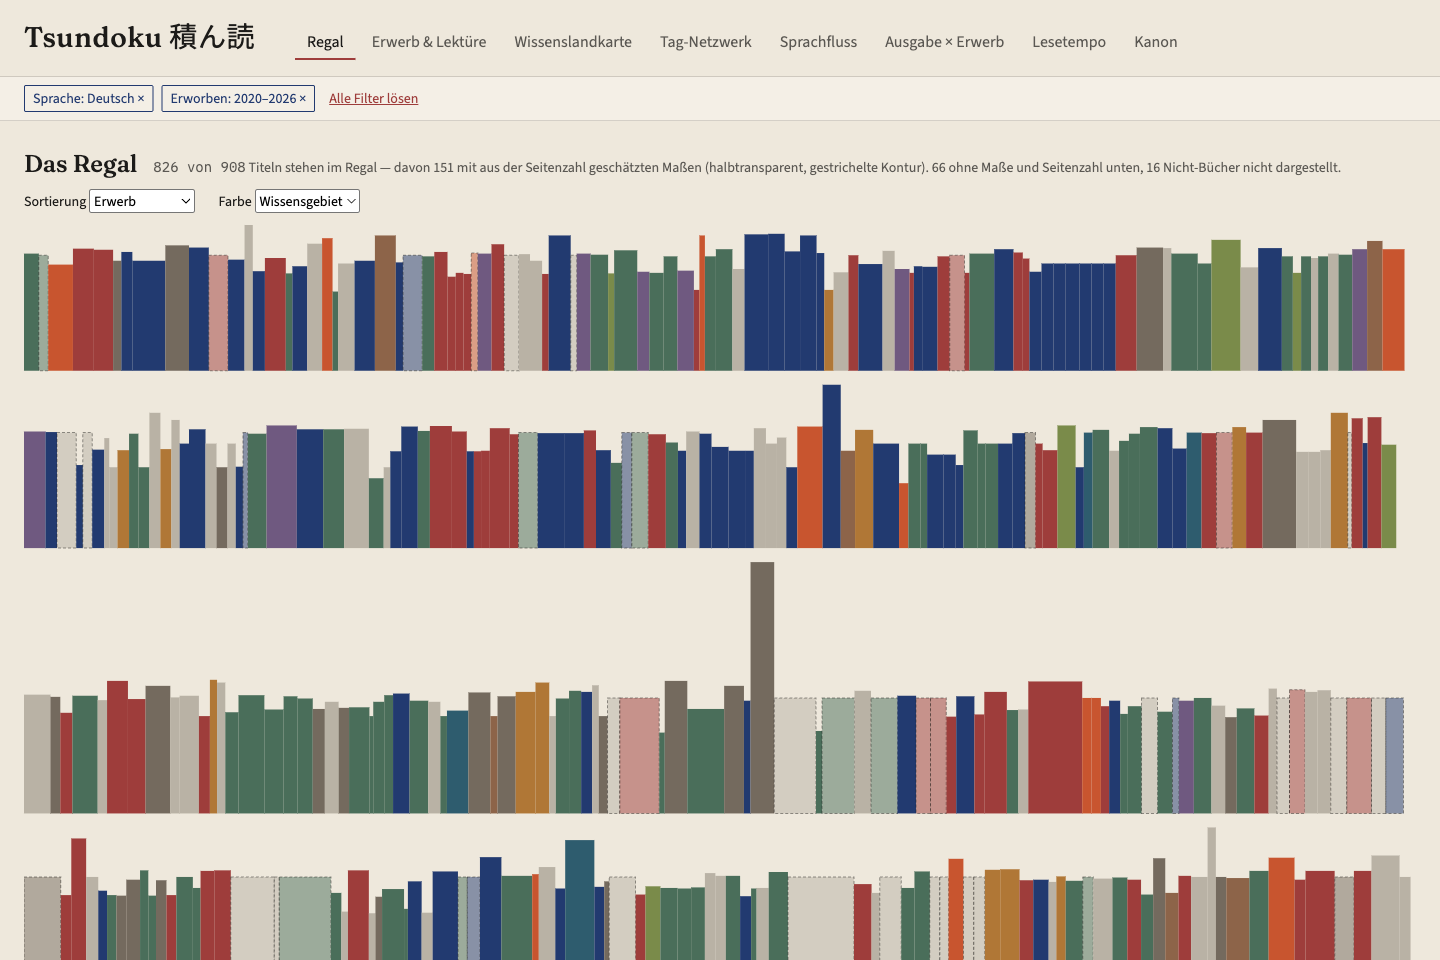
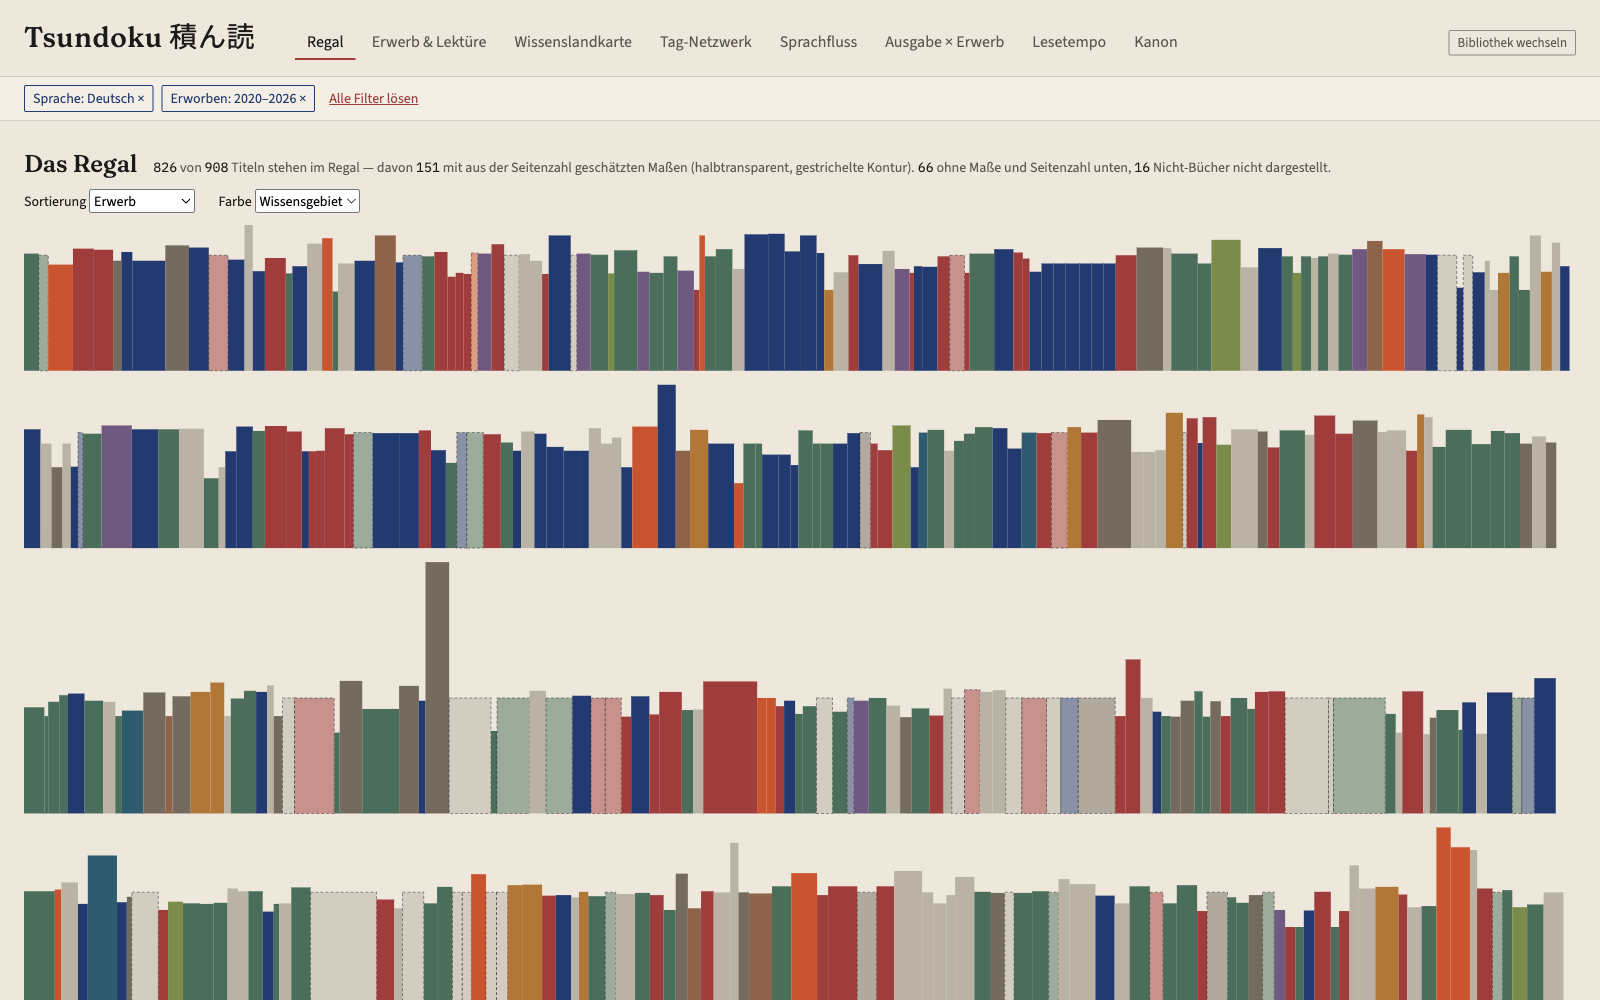
docs: README auf aktuellen Funktionsstand, Screenshots erneuert
Öffentliche Instanz prominent im Intro; Ansichtsbeschreibungen um die
neuen Interaktionen ergänzt (Detailkarte mit klickbaren Kriterien und
LibraryThing-Link, Zeitraum-Brush in beiden Zeitleisten und der Matrix,
Zoom/Suche im Tag-Netzwerk, Sprachbalken-Klick und Lesejahr-Filter im
Sprachfluss). Neuer Screenshot der Begrüßungsseite mit Upload; die drei
bestehenden Screenshots auf dem aktuellen Stand neu aufgenommen
(Zahlen-Typografie, Fußzeile, Kopfzeile mit Bibliothek-wechseln).
Stand-Abschnitt um Upload-Pfad und GitHub-Page ergänzt.

Claude-Session: https://claude.ai/code/session_01F4fjRtBP7VWSwbD4CFKadP

diff --git a/README.md b/README.md
@@ -9,22 +9,28 @@ verrät die Differenz zwischen Erwerb und Lektüre über mich"**. Nur gut ein
 Viertel der Sammlung ist gelesen; der Rest ist der Stapel, und der Stapel hat
 eine Geschichte.
 
-Clientseitige Single-Page-App, kein Backend. Der Export wird einmalig
-normalisiert und als statisches JSON ausgeliefert.
+Clientseitige Single-Page-App, kein Backend — läuft auf
+**<https://saigyo.github.io/tsundoku/>** mit der eigenen
+LibraryThing-Bibliothek: Export hochladen, die Normalisierung passiert im
+Browser, nichts verlässt den Rechner.
 
 ## Was es zu sehen gibt
 
 Acht Ansichten, und jede ist zugleich Anzeige und Filtereingabe: Ein Klick auf
-einen Tag im Netzwerk, ein Jahr in der Zeitleiste oder einen Strom im
-Sprachfluss schränkt den Datensatz für *alle* anderen Ansichten ein. Die
-aktiven Filter stehen als Chips über jeder Ansicht, einzeln lösbar, und der
-komplette Zustand liegt in der URL — jede Sicht auf die Sammlung ist ein Link.
+einen Tag im Netzwerk, einen Strom im Sprachfluss oder ein per Ziehen
+aufgespannter Zeitraum in den Zeitleisten schränkt den Datensatz für *alle*
+anderen Ansichten ein. Die aktiven Filter stehen als Chips über jeder Ansicht,
+einzeln lösbar, und der komplette Zustand liegt in der URL — jede Sicht auf
+die Sammlung ist ein Link.
 
 **Das Regal** ist Start- und Signature-Ansicht: jeder Buchrücken ein Rechteck
 in echten Proportionen, Höhe und Dicke aus den Katalogmaßen (wo sie fehlen,
 aus der Seitenzahl geschätzt und sichtbar gestrichelt markiert). Farbe nach
 Wissensgebiet, Sprache, Lesestatus oder Erwerbsjahr; Sortierung nach Erwerb,
-Autor·in, Höhe oder Wissensgebiet. Hier mit den Filtern „Sprache: Deutsch"
+Autor·in, Höhe oder Wissensgebiet. Ein Klick auf einen Rücken öffnet die
+Detailkarte des Titels — dort sind Autor·innen, Tags, Sprachen und
+Wissensgebiet selbst wieder klickbare Filter, und ein Link führt zum Buch in
+der eigenen LibraryThing-Bibliothek. Hier mit den Filtern „Sprache: Deutsch"
 und „Erworben: 2020–2026":
 
 ![Das Regal, gefiltert auf deutsche Titel der Erwerbsjahre 2020–2026](docs/screenshots/regal-gefiltert.png)
@@ -32,25 +38,30 @@ und „Erworben: 2020–2026":
 **Die Wissenslandkarte** zeichnet die Interessengebiete über 35 Erwerbsjahre
 als Streamgraph der Dewey-Hauptklassen — vom schmalen Rinnsal der frühen Jahre
 über die Massenkatalogisierung 2006 bis zum breiten Strom aus Literatur (grün),
-Sozialwissenschaften (rot) und Künsten:
+Sozialwissenschaften (rot) und Künsten. Horizontales Ziehen über die Fläche
+filtert den Erwerbszeitraum:
 
 ![Wissenslandkarte: DDC-Hauptklassen über die Erwerbsjahre](docs/screenshots/wissenslandkarte.png)
 
 **Der Sprachfluss** verbindet Originalsprache und Ausgabesprache als
-Sankey-Diagramm: Was wird im Original gelesen, was in Übersetzung? Hier
-eingeschränkt auf die Erwerbsjahre 2020–2026 — gut sichtbar der japanische
-Strom, der sich in deutsche und englische Übersetzungen und ins Original
-aufteilt:
+Sankey-Diagramm: Was wird im Original gelesen, was in Übersetzung? Ein Strom
+filtert beide Sprachen zugleich, die Sprachbalken links und rechts jeweils
+nur ihre Seite; der Zeitraumfilter kennt wahlweise Erwerbs- oder Lesejahre.
+Hier eingeschränkt auf die Erwerbsjahre 2020–2026 — gut sichtbar der
+japanische Strom, der sich in deutsche und englische Übersetzungen und ins
+Original aufteilt:
 
 ![Sprachfluss der Erwerbsjahre 2020–2026](docs/screenshots/sprachfluss-gefiltert.png)
 
 Dazu kommen: **Erwerb & Lektüre** (gegenläufige Zeitreihen, dazwischen wächst
-der Stapel), das **Tag-Netzwerk** (welche Themen hängen zusammen, welche Bücher
-schlagen Brücken), **Ausgabe × Erwerb** (Neuerscheinungen auf der Diagonale,
-Rückgriffe darunter), das **Lesetempo** (Seiten gegen Tage, facettierbar nach
-Sprache — wird im Original langsamer gelesen?) und der **Kanonabgleich**
-(Harenberg, „1001 Books" & Co.: besessen vs. gelesen, grundsätzlich ohne
-Prozentangaben, denn der Listenumfang ist unbekannt).
+der Stapel; Ziehen über der Nulllinie filtert Erwerbs-, darunter Lesejahre),
+das **Tag-Netzwerk** (welche Themen hängen zusammen — mit Zoom, Verschieben,
+Tag-Suche und isolierbarer Nachbarschaft), **Ausgabe × Erwerb**
+(Neuerscheinungen auf der Diagonale, Rückgriffe darunter; ein aufgezogenes
+Rechteck filtert beide Achsen), das **Lesetempo** (Seiten gegen Tage,
+facettierbar nach Sprache — wird im Original langsamer gelesen?) und der
+**Kanonabgleich** (Harenberg, „1001 Books" & Co.: besessen vs. gelesen,
+grundsätzlich ohne Prozentangaben, denn der Listenumfang ist unbekannt).
 
 Fehlende Daten werden dabei nie versteckt: Jede Ansicht nennt die Abdeckung
 ihrer eigenen Datengrundlage, und alles, was die Normalisierung korrigiert,
@@ -63,12 +74,17 @@ schätzt oder verwirft, ist als Regel dokumentiert und gezählt
 <https://saigyo.github.io/tsundoku/> — ohne eingebaute Bibliotheksdaten.
 Beim Start nimmt sie einen LibraryThing-Export entgegen, normalisiert ihn
 direkt im Browser (derselbe Code wie das CLI-Skript), zeigt die Kennzahlen
-der Normalisierung und lädt dann die Ansichten. Die Datei verlässt den
-Browser dabei nicht; die normalisierten Daten bleiben lokal im Browser
-(IndexedDB) und überstehen einen Reload — „Bibliothek wechseln" lädt
-jederzeit einen anderen Export. Obergrenze sind 10.000 Einträge, denn die
-Ansichten halten alles im Speicher; größere Bibliotheken lassen sich bei
-LibraryThing gefiltert exportieren.
+der Normalisierung und lädt dann die Ansichten:
+
+![Begrüßungsseite mit Upload des LibraryThing-Exports](docs/screenshots/begruessung-upload.png)
+
+Die Datei verlässt den Browser dabei nicht; die normalisierten Daten bleiben
+lokal im Browser (IndexedDB) und überstehen einen Reload — „Bibliothek
+wechseln" in der Kopfzeile lädt jederzeit einen anderen Export, und stammen
+gespeicherte Daten aus einer inzwischen inkompatiblen Version, bittet die App
+um einen Neu-Upload. Obergrenze sind 10.000 Einträge, denn die Ansichten
+halten alles im Speicher; größere Bibliotheken lassen sich bei LibraryThing
+gefiltert exportieren.
 
 **Lokal:** Als Datengrundlage dient ein Export der eigenen
 LibraryThing-Bibliothek: auf <https://www.librarything.com/export.php> das
@@ -107,10 +123,12 @@ GitHub-Page (ohne Bibliotheksdaten).
 
 ## Stand
 
-Anwendung vollständig: Fundament (Filter-Store, URL-Sync, Shell) und alle acht
-Views aus `docs/visualisierungen.md`. Start mit `npm run dev`, statischer Build
-mit `npm run build`. Datengrundlage einmalig per
-`node scripts/normalize.mjs <export.json>` erzeugen.
+Anwendung vollständig: Fundament (Filter-Store, URL-Sync, Shell), alle acht
+Views aus `docs/visualisierungen.md` samt Zoom-, Brush- und
+Detail-Interaktionen, Upload-Pfad mit Normalisierung im Browser und
+Persistenz, Veröffentlichung als GitHub-Page. Lokal: Start mit
+`npm run dev`, statischer Build mit `npm run build`, Datengrundlage einmalig
+per `node scripts/normalize.mjs <export.json>` erzeugen.
 
 ## Lizenz
 
